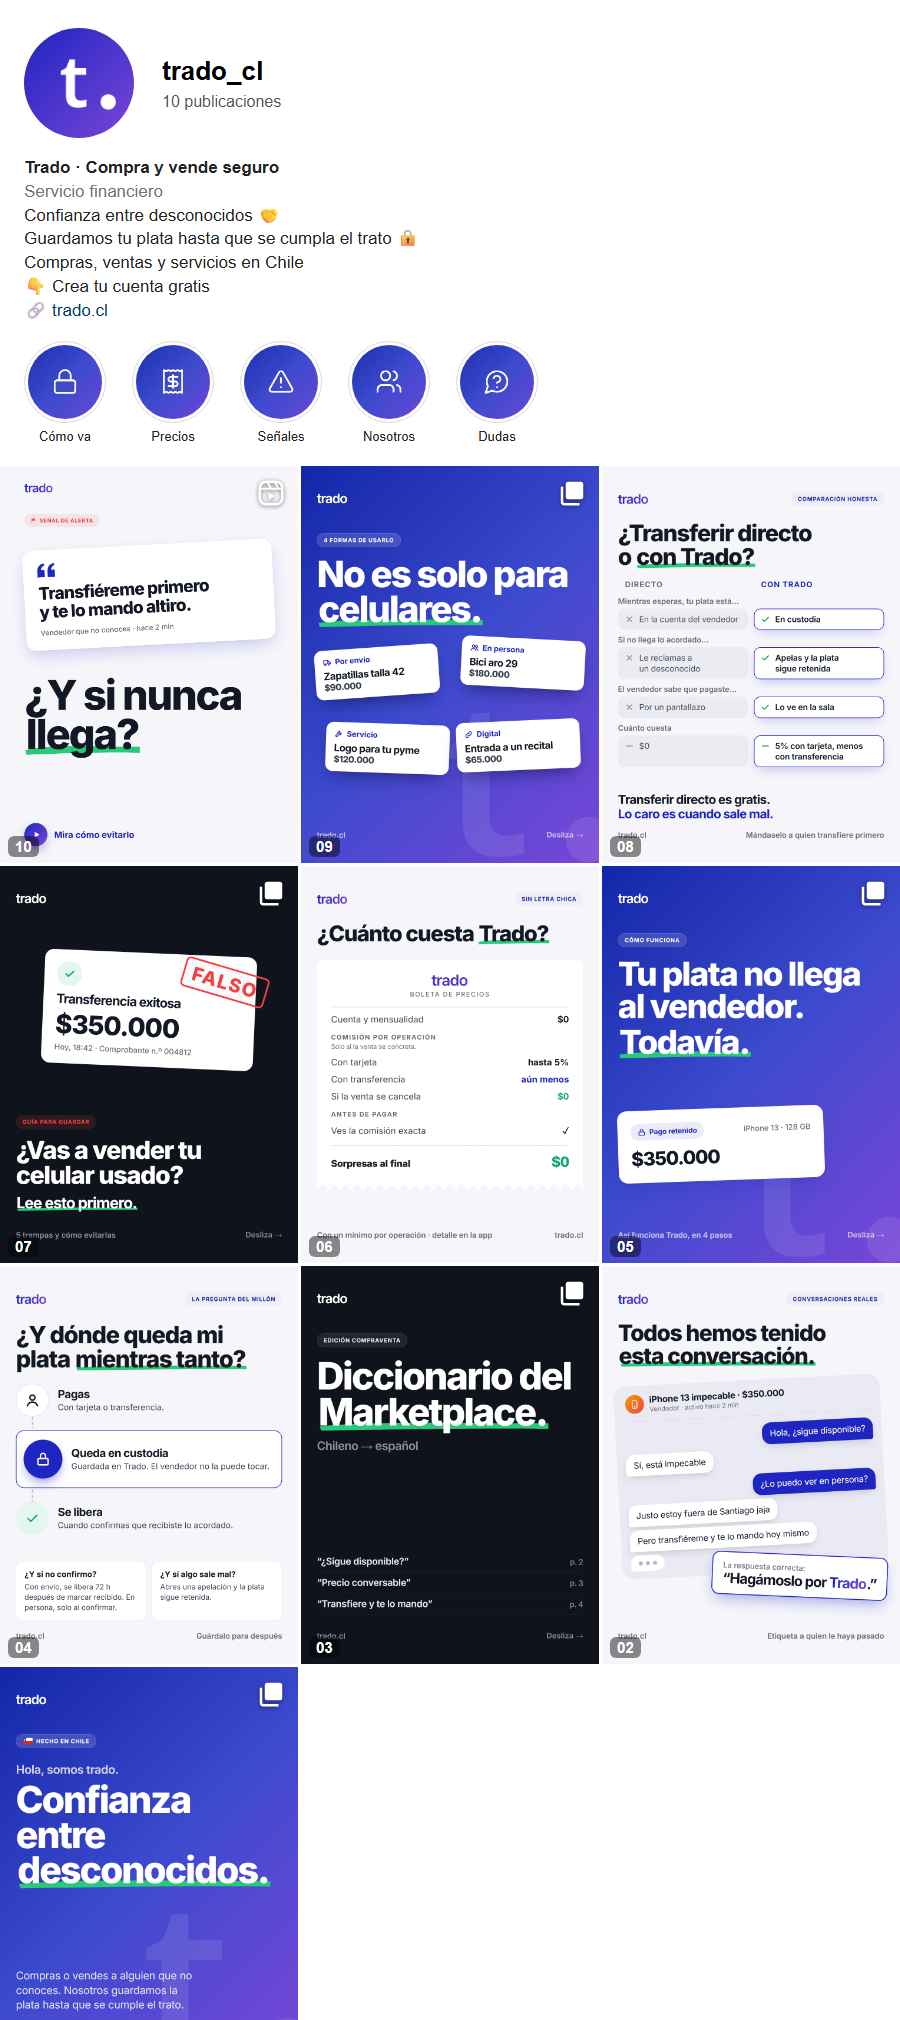
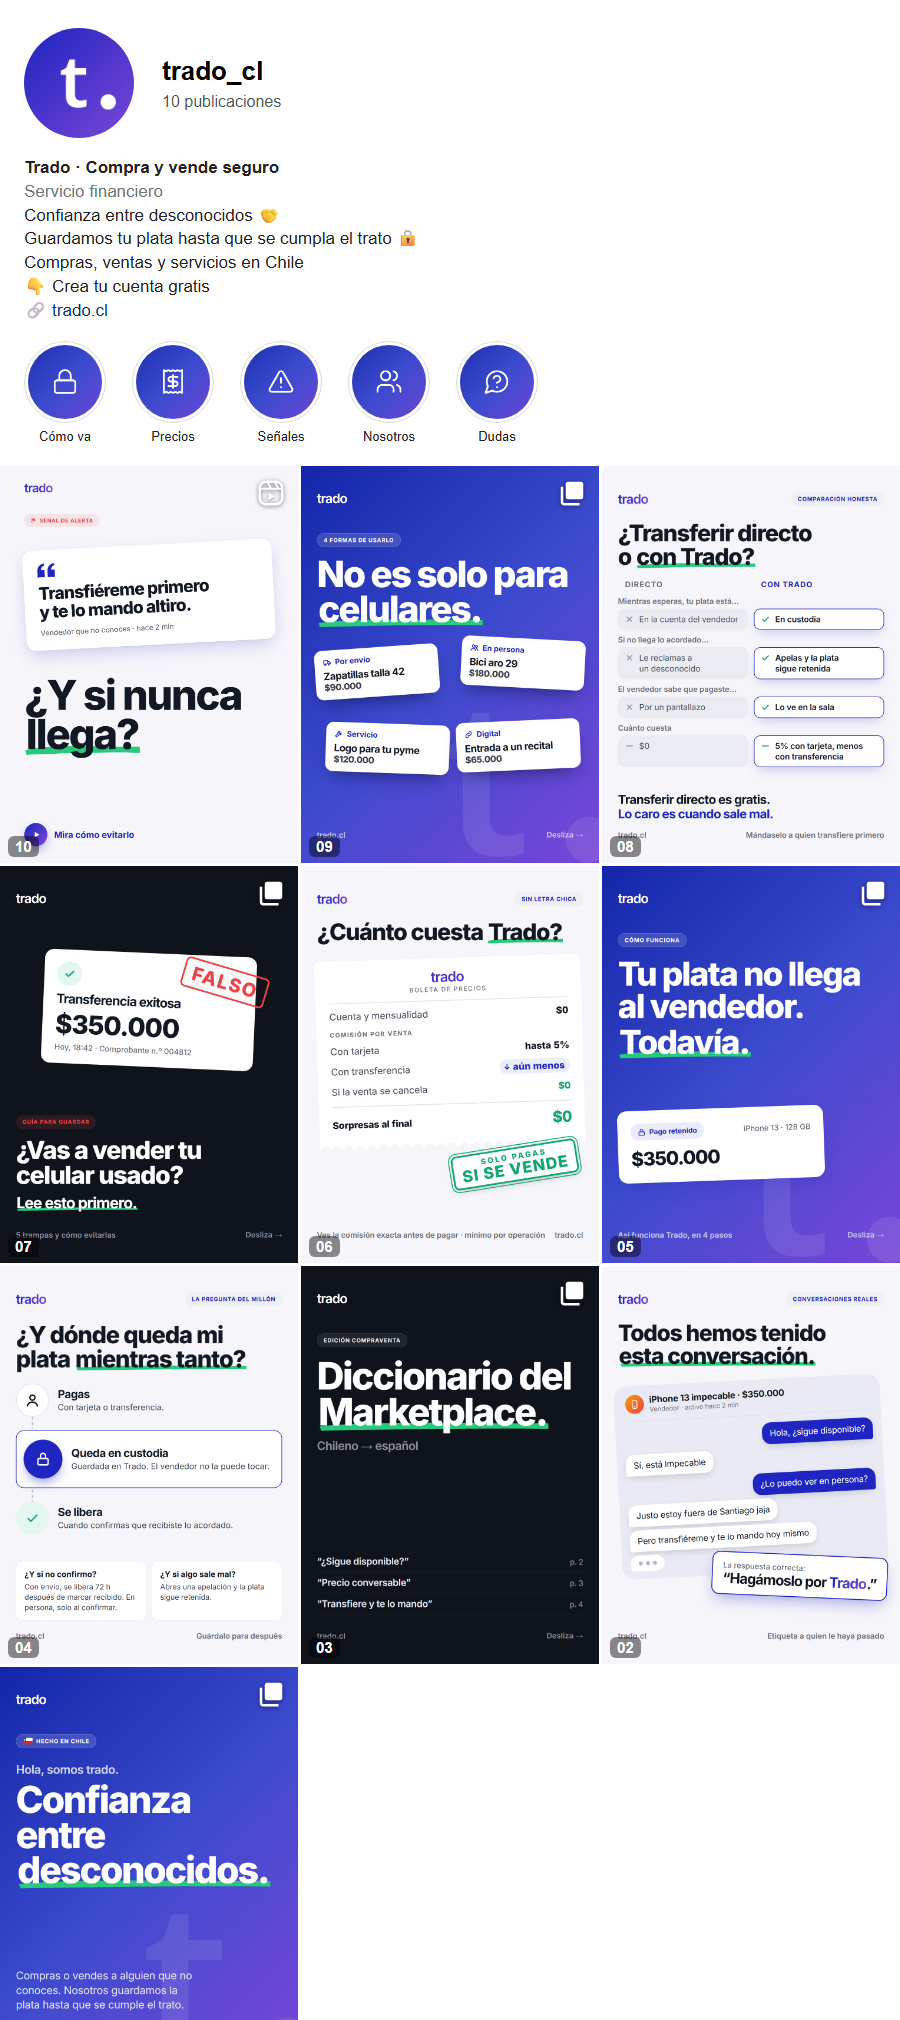
Instagram: post 6 más llamativo sin cambiar el fondo del feed
Boleta levemente inclinada, timbre 'Solo pagas si se vende' estampado sobre su
borde (mismo lenguaje que el sello FALSO del post 07) y la transferencia
destacada con flecha. Fondo gris intacto: arma el patrón del feed.

Changed region(s): [[0.4978, 0.499, 0.6533, 0.5926], [0.3733, 0.4366, 0.6222, 0.499], [0.3733, 0.499, 0.4667, 0.5614]]

diff --git a/Instagram/_sistema/feed/06-cuanto-cuesta/slide-1.html b/Instagram/_sistema/feed/06-cuanto-cuesta/slide-1.html
@@ -3,49 +3,71 @@
 <!-- Versión sin compromiso (2026-09-28): sin tramos, sin umbrales ni ejemplos que
      puedan cambiar. "Hasta 5%" es cierto para la tarjeta; el mínimo por operación
      (hoy $1.000, calculateFee) se menciona sin número porque en montos chicos el
-     porcentaje real supera el 5%. La cifra exacta se ve en la app antes de crear la sala. -->
+     porcentaje real supera el 5%. La cifra exacta se ve en la app antes de crear la sala.
+     Fondo gris a propósito: arma el patrón del feed. Lo llamativo va en la boleta:
+     inclinada, con timbre "Solo pagas si se vende" (mismo lenguaje que el sello FALSO
+     del post 07) y la transferencia destacada con flecha. -->
 <style>
+  .escena { position: relative; margin-top: 48px; }
   .boleta {
-    position: relative; margin-top: 52px; background: #fff; color: var(--texto);
-    padding: 44px 48px 64px; border-radius: 20px 20px 0 0;
+    position: relative; background: #fff; color: var(--texto);
+    padding: 40px 46px 60px; border-radius: 20px 20px 0 0;
     font-variant-numeric: tabular-nums;
-    box-shadow: 0 2px 4px rgba(19,25,36,.04), 0 40px 80px -30px rgba(31,37,193,.35);
+    box-shadow: 0 2px 4px rgba(19,25,36,.05), 0 50px 90px -30px rgba(31,37,193,.45);
     -webkit-mask: radial-gradient(circle 14px at 50% 100%, transparent 98%, #000) center bottom / 40px 100% round no-repeat;
   }
-  .b-cab { text-align: center; padding-bottom: 26px; border-bottom: 3px dashed #D6D8E6; }
-  .b-cab .logo { font-size: 52px; }
-  .b-cab .chico { color: var(--gris); letter-spacing: 3px; text-transform: uppercase; font-size: 22px; margin-top: 6px; }
-  .linea { display: flex; justify-content: space-between; align-items: baseline; font-size: 30px; margin-top: 22px; }
+  .b-cab { text-align: center; padding-bottom: 22px; border-bottom: 3px dashed #D6D8E6; }
+  .b-cab .logo { font-size: 48px; }
+  .b-cab .chico { color: var(--gris); letter-spacing: 3px; text-transform: uppercase; font-size: 21px; margin-top: 4px; }
+  .linea { display: flex; justify-content: space-between; align-items: center; font-size: 32px; margin-top: 24px; }
   .linea span:first-child { color: #3B4150; }
-  .linea b { font-weight: 700; }
-  .seccion { margin-top: 30px; font-size: 22px; font-weight: 700; letter-spacing: 2.5px; color: var(--gris); text-transform: uppercase; }
-  .nota { font-size: 22px; color: var(--gris); margin-top: 4px; }
-  .total { margin-top: 30px; padding-top: 24px; border-top: 3px dashed #D6D8E6; display: flex; justify-content: space-between; align-items: baseline; }
+  .linea b { font-weight: 800; }
+  .seccion { margin-top: 30px; font-size: 21px; font-weight: 700; letter-spacing: 2.5px; color: var(--gris); text-transform: uppercase; }
+  .baja {
+    display: inline-flex; align-items: center; gap: 8px;
+    background: #ECEDFB; color: var(--indigo); padding: 6px 18px 6px 12px; border-radius: 999px;
+  }
+  .baja svg { width: 26px; height: 26px; stroke: currentColor; stroke-width: 3; fill: none; stroke-linecap: round; stroke-linejoin: round; }
+  .total { margin-top: 30px; padding-top: 22px; border-top: 3px dashed #D6D8E6; display: flex; justify-content: space-between; align-items: baseline; }
   .total span { font-size: 32px; font-weight: 800; letter-spacing: -.5px; }
-  .total b { font-size: 48px; font-weight: 800; color: var(--verde); letter-spacing: -1.5px; }
+  .total b { font-size: 52px; font-weight: 800; color: var(--verde); letter-spacing: -1.5px; }
+
+  /* Timbre de goma: borde doble y tinta verde, estampado sobre la boleta. */
+  .timbre {
+    position: absolute; right: 18px; bottom: -118px; transform: rotate(-9deg);
+    border: 6px solid var(--verde); outline: 3px solid var(--verde); outline-offset: 6px;
+    color: var(--verde); border-radius: 18px; padding: 12px 26px 10px;
+    text-align: center; line-height: 1.02; background: rgba(255,255,255,.9);
+    font-weight: 800; letter-spacing: 3px; text-transform: uppercase;
+    box-shadow: 0 12px 30px -14px rgba(19,25,36,.35);
+  }
+  .timbre .t1 { font-size: 26px; letter-spacing: 6px; }
+  .timbre .t2 { font-size: 54px; }
 </style></head>
 <body><div class="slide fondo-gris">
   <div class="cabecera"><span class="logo">trado</span><span class="etiqueta">Sin letra chica</span></div>
 
-  <div class="titulo" style="margin-top:56px;font-size:74px">¿Cuánto cuesta <span class="marca">Trado?</span></div>
+  <div class="titulo" style="margin-top:48px;font-size:78px">¿Cuánto cuesta <span class="marca">Trado?</span></div>
 
-  <div class="boleta">
-    <div class="b-cab"><div class="logo">trado</div><div class="chico">Boleta de precios</div></div>
+  <div class="escena">
+    <div class="boleta" style="transform: rotate(-1.8deg)">
+      <div class="b-cab"><div class="logo">trado</div><div class="chico">Boleta de precios</div></div>
 
-    <div class="linea"><span>Cuenta y mensualidad</span><b>$0</b></div>
+      <div class="linea"><span>Cuenta y mensualidad</span><b>$0</b></div>
 
-    <div class="seccion">Comisión por operación</div>
-    <div class="nota" style="margin-top:6px">Solo si la venta se concreta.</div>
-    <div class="linea"><span>Con tarjeta</span><b>hasta 5%</b></div>
-    <div class="linea"><span>Con transferencia</span><b class="acento-indigo">aún menos</b></div>
-    <div class="linea"><span>Si la venta se cancela</span><b style="color:var(--verde)">$0</b></div>
+      <div class="seccion">Comisión por venta</div>
+      <div class="linea"><span>Con tarjeta</span><b>hasta 5%</b></div>
+      <div class="linea"><span>Con transferencia</span>
+        <b class="baja"><svg viewBox="0 0 24 24"><path d="M12 5v14M6 13l6 6 6-6"/></svg>aún menos</b>
+      </div>
+      <div class="linea"><span>Si la venta se cancela</span><b style="color:var(--verde)">$0</b></div>
 
-    <div class="seccion">Antes de pagar</div>
-    <div class="linea"><span>Ves la comisión exacta</span><b>✓</b></div>
+      <div class="total"><span>Sorpresas al final</span><b>$0</b></div>
+    </div>
 
-    <div class="total"><span>Sorpresas al final</span><b>$0</b></div>
+    <div class="timbre"><div class="t1">Solo pagas</div><div class="t2">si se vende</div></div>
   </div>
 
   <div class="relleno"></div>
-  <div class="pie"><span>Con un mínimo por operación · detalle en la app</span><span>trado.cl</span></div>
+  <div class="pie"><span>Ves la comisión exacta antes de pagar · mínimo por operación</span><span>trado.cl</span></div>
 </div></body></html>
